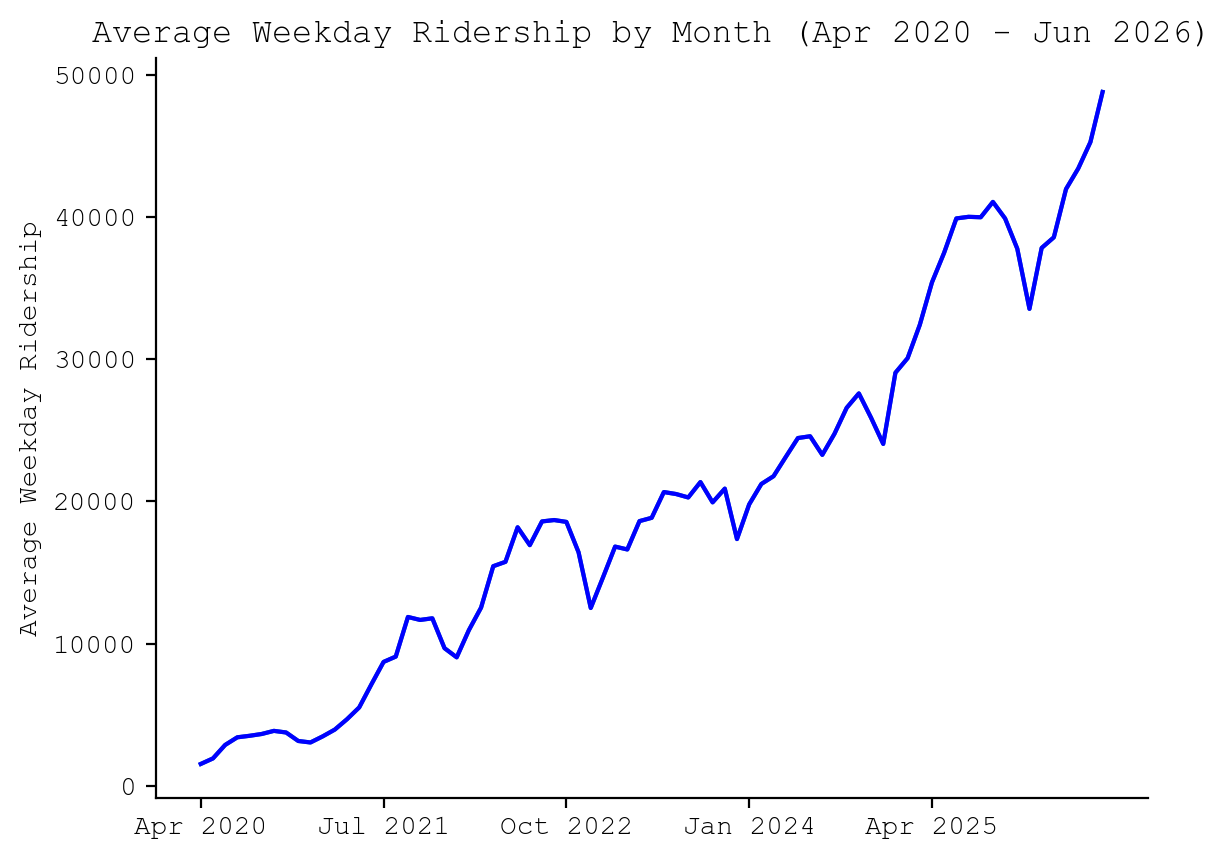
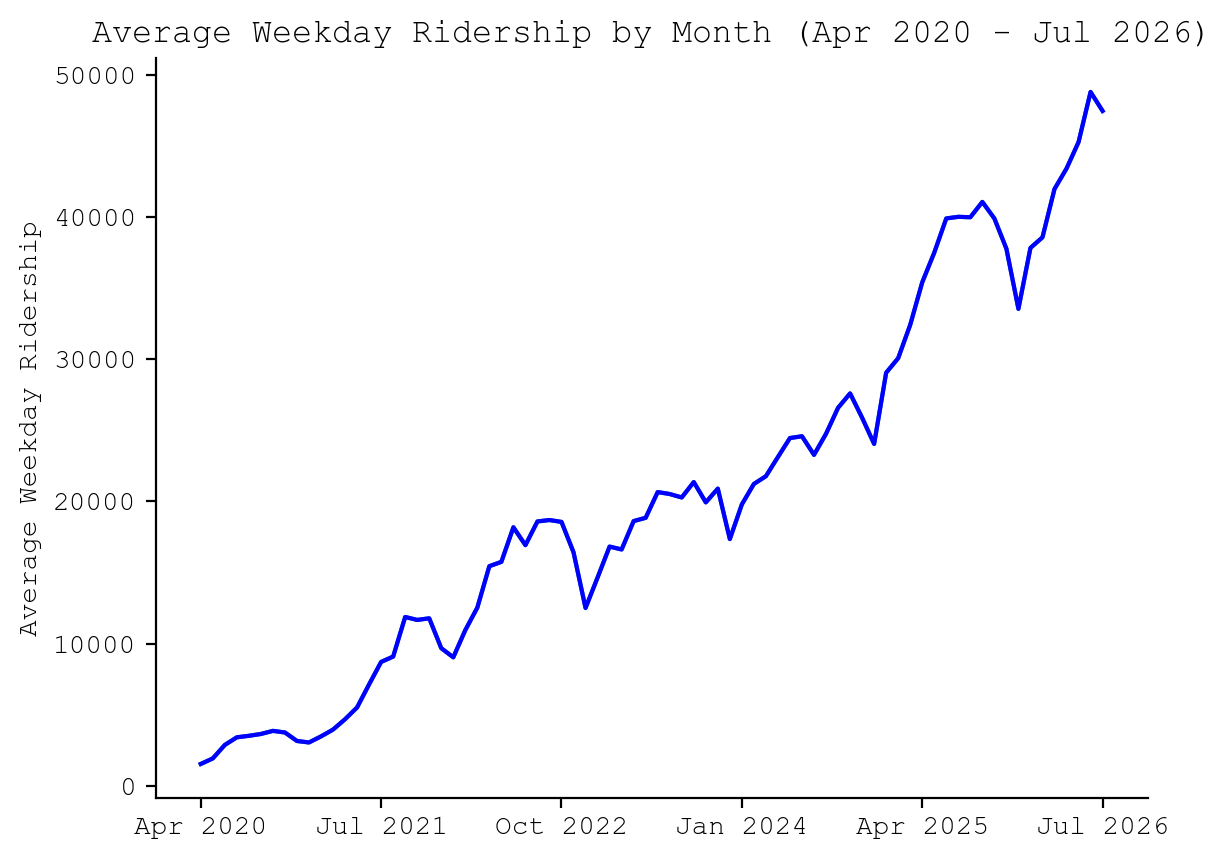
add jul 2026

diff --git a/site/index.html b/site/index.html
@@ -9,15 +9,15 @@
 </head>
 <body>
     <h1>Caltrain Ridership</h1>
-    <p><em>Last updated: 2026-07-12</em></p>    
+    <p><em>Last updated: 2026-08-10</em></p>    
     <div class="news">
         <p>
             It looks like you're on desktop, so you can use Caltrain's new ridership web page which has more detailed ridership data from 2023 onwards: <a href="https://www.caltrain.com/about-caltrain/statistics-reports/ridership/fare-media-based">https://www.caltrain.com/about-caltrain/statistics-reports/ridership/fare-media-based</a>.
         </p>
     </div>
     <p>
-        This site contains graphs and a table of Caltrain's average weekday ridership from Jul 2017 to Jun 2026 sourced from <a href="https://www.caltrain.com/about-caltrain/statistics-reports/ridership/fare-media-based">Fare Media Sales-Based Ridership Estimates</a> and JPB Citizens Advisory Committee documents.
-        Average weekday ridership is reported with a 1-month lag, so the most recent data is from Jun 2026.
+        This site contains graphs and a table of Caltrain's average weekday ridership from Jul 2017 to Jul 2026 sourced from <a href="https://www.caltrain.com/about-caltrain/statistics-reports/ridership/fare-media-based">Fare Media Sales-Based Ridership Estimates</a> and JPB Citizens Advisory Committee documents.
+        Average weekday ridership is reported with a 1-month lag, so the most recent data is from Jul 2026.
     </p>
     <p>
         You can find a <a href="https://github.com/iechevarria/caltrain-ridership/blob/main/ridership.csv">CSV</a> of Caltrain's average weekday ridership and the script to generate this site on <a href="https://github.com/iechevarria/caltrain-ridership">GitHub</a>.
@@ -31,6 +31,10 @@
     <tr>
         <td>Month</td>
         <td>Average weekday ridership</td>
+    </tr>
+    <tr>
+        <td>Jul 2026</td>
+        <td>47459</td>
     </tr>
     <tr>
         <td>Jun 2026</td>
